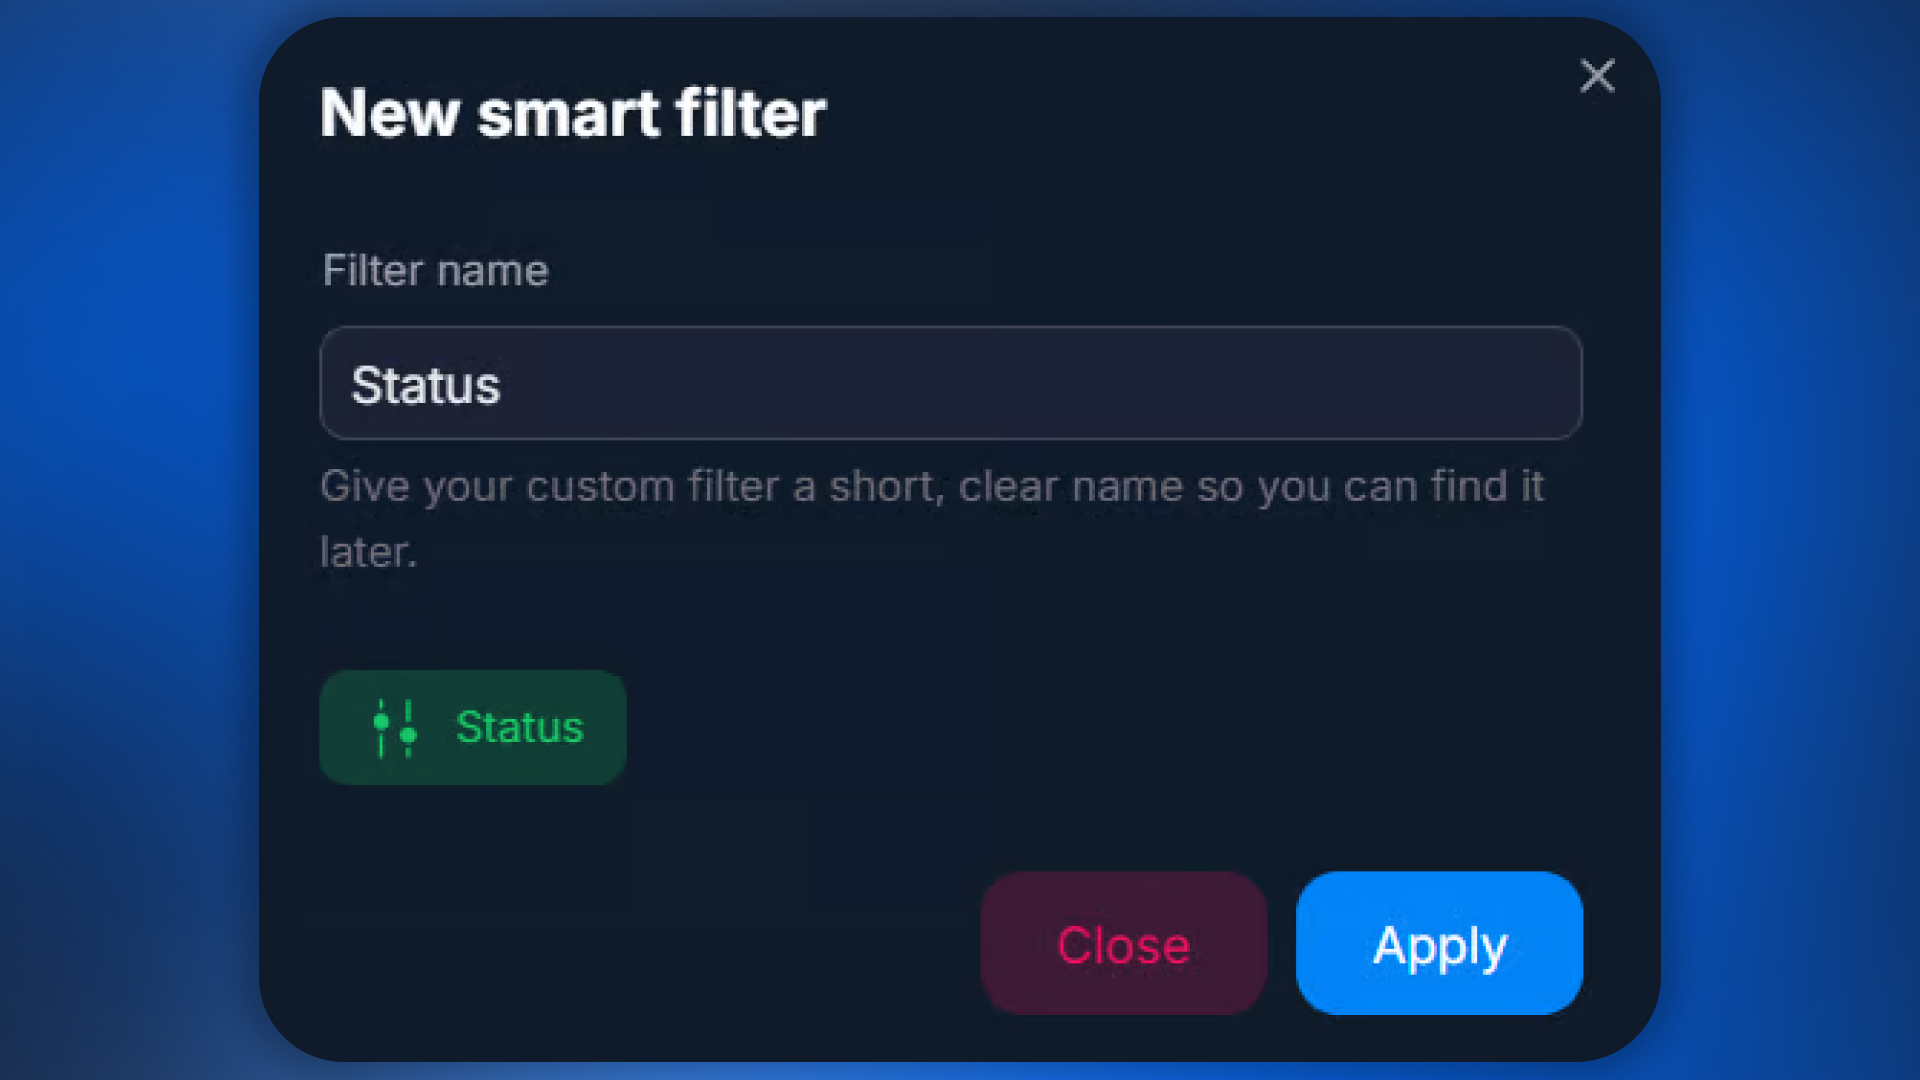
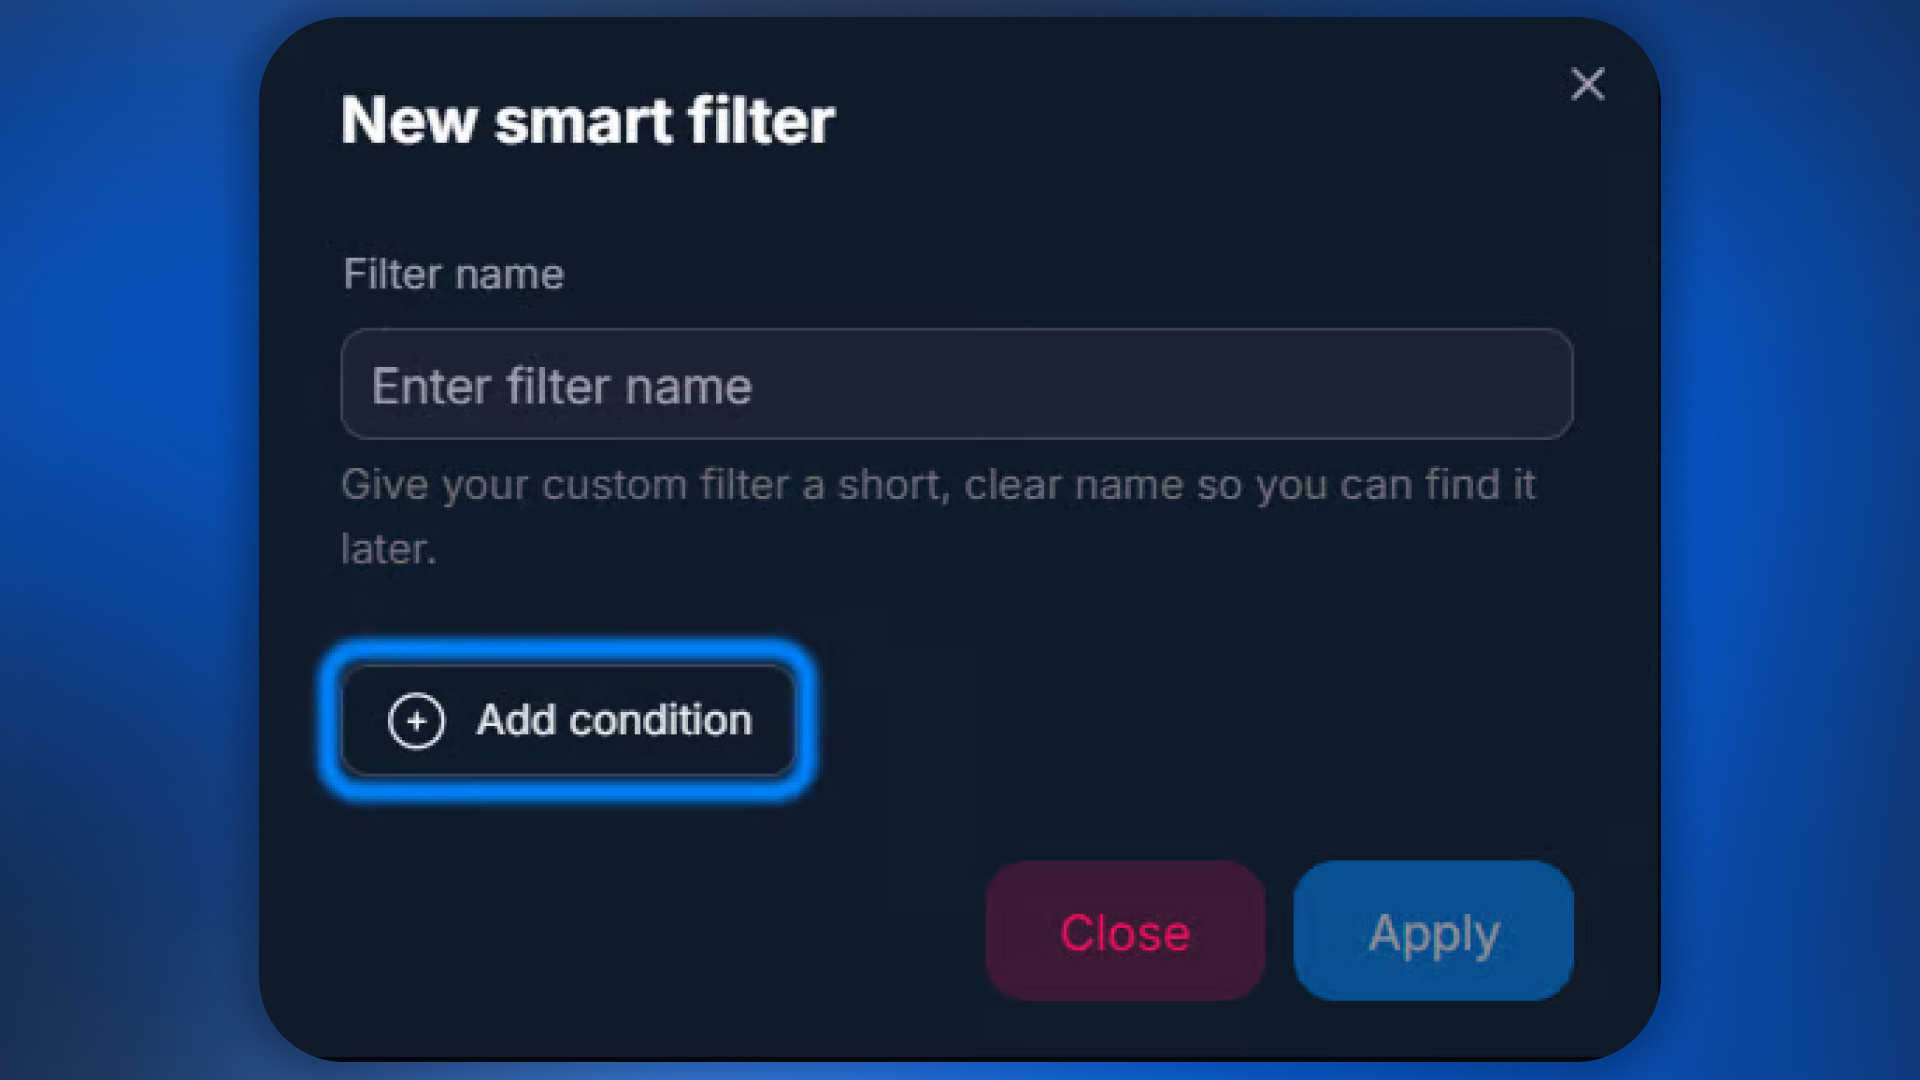
GITBOOK-403: No subject

diff --git a/get-started/dobro-pozhalovat/o-produkte/kak-polzovatsya-help-center.md b/get-started/dobro-pozhalovat/o-produkte/kak-polzovatsya-help-center.md
@@ -1,0 +1,57 @@
+---
+icon: comments-question-check
+---
+
+# Как пользоваться Help Center
+
+> ### Help Center — это база знаний по Chatterfy, где вы можете быстро найти ответы на любые вопросы по платформе.
+
+### Поиск с AI
+
+{% hint style="info" %}
+Верхней части сайта находится поисковая строка с AI-ответами.
+
+*
+
+    <div data-with-frame="true"><figure><img src="../../../.gitbook/assets/Добро-пожаловать-_-Chatterfy.ai-Help-Center-Google-Chrome-2026-04-15-23-12-20_3.gif" alt=""><figcaption></figcaption></figure></div>
+
+
+
+Просто введите любой вопрос, например:
+
+* как создать бота
+* как настроить трекер
+* как работает Flow
+
+AI подберёт релевантные статьи и сразу даст краткий ответ.
+{% endhint %}
+
+### Навигация по разделам
+
+{% hint style="info" %}
+Все статьи в Help Center разбиты по разделам:
+
+*
+
+    <div data-with-frame="true"><figure><img src="../../../.gitbook/assets/Frame 2235.png" alt=""><figcaption></figcaption></figure></div>
+* Добро пожаловать — вводная информация о платформе
+* Быстрый старт — базовая настройка и первые шаги
+* CRM — работа с лидами и чатами
+* Конструктор (Flow Settings) — создание и логика воронок
+* Bot Settings — настройки бота
+* Analytics — аналитика и отчёты
+* Tracker — кампании, источники и события
+* Администрирование (Company) — управление аккаунтом и доступами
+
+Вы можете перейти в нужный раздел и найти статью вручную.
+{% endhint %}
+
+### Как быстрее находить нужное
+
+{% hint style="info" %}
+* Используйте конкретные запросы (например: _postback настройка facebook_)
+* Переходите по подсказкам из AI-ответа
+* Открывайте связанные статьи внутри страниц
+{% endhint %}
+
+{% include "../../../.gitbook/includes/start-i-obzoro-produktearkhi....md" %}

diff --git a/get-started/crm/messenger/custom-filters/README.md b/get-started/crm/messenger/custom-filters/README.md
@@ -41,7 +41,7 @@ icon: bookmark
 * Нажмите **Add Condition**.
 *
 
-    <div data-with-frame="true"><figure><img src="../../../../.gitbook/assets/Frame 2235.png" alt=""><figcaption></figcaption></figure></div>
+    <div data-with-frame="true"><figure><img src="../../../../.gitbook/assets/Frame 2235 (1).png" alt=""><figcaption></figcaption></figure></div>
 {% endhint %}
 {% endstep %}
 
@@ -62,7 +62,7 @@ icon: bookmark
 * Нажмите **Apply**.
 *
 
-    <div data-with-frame="true"><figure><img src="../../../../.gitbook/assets/Frame 2235 (1).png" alt=""><figcaption></figcaption></figure></div>
+    <div data-with-frame="true"><figure><img src="../../../../.gitbook/assets/Frame 2235 (1) (1).png" alt=""><figcaption></figcaption></figure></div>
 {% endhint %}
 {% endstep %}
 {% endstepper %}

diff --git a/SUMMARY.md b/SUMMARY.md
@@ -4,6 +4,7 @@
 
 * [Добро пожаловать](README.md)
   * [О продукте](get-started/dobro-pozhalovat/o-produkte/README.md)
+    * [Как пользоваться Help Center](get-started/dobro-pozhalovat/o-produkte/kak-polzovatsya-help-center.md)
     * [Что такое Chatterfy](get-started/dobro-pozhalovat/o-produkte/chto-takoe-chatterfy.md)
     * [Как создать аккаунт](get-started/dobro-pozhalovat/o-produkte/kak-sozdat-akkaunt/README.md)
       * [Тестовый период](get-started/dobro-pozhalovat/o-produkte/kak-sozdat-akkaunt/testovyi-period.md)
